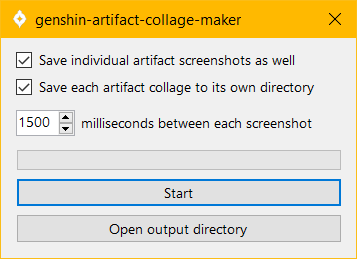
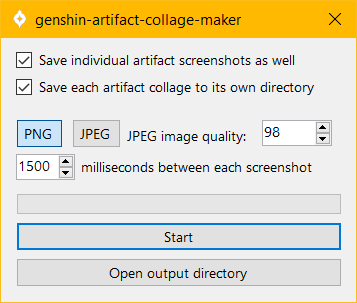
Bump version to 1.2

Changed region(s): [[0.0, 0.0309, 1.0, 0.9575], [0.0, 0.9884, 1.0, 1.0], [0.9244, 0.0309, 0.9552, 0.0927]]

diff --git a/Properties/AssemblyInfo.cs b/Properties/AssemblyInfo.cs
@@ -32,5 +32,5 @@ using System.Runtime.InteropServices;
 // You can specify all the values or you can default the Build and Revision Numbers
 // by using the '*' as shown below:
 // [assembly: AssemblyVersion("1.0.*")]
-[assembly: AssemblyVersion("1.1")]
-[assembly: AssemblyFileVersion("1.1")]
+[assembly: AssemblyVersion("1.2")]
+[assembly: AssemblyFileVersion("1.2")]

diff --git a/README.md b/README.md
@@ -2,8 +2,8 @@
 This tool allows you to quickly make an image collage of a character's artifact set in Genshin Impact.
 
 - Quickly generate an artifact set image collage
-- Option to individually save each artifact image
-- Customizable screenshot interval
+- Individually save each artifact image also possible
+- PNG and JPG formats supported
 - Works with different game resolutions, both windowed and fullscreen
 
 ### How to use
